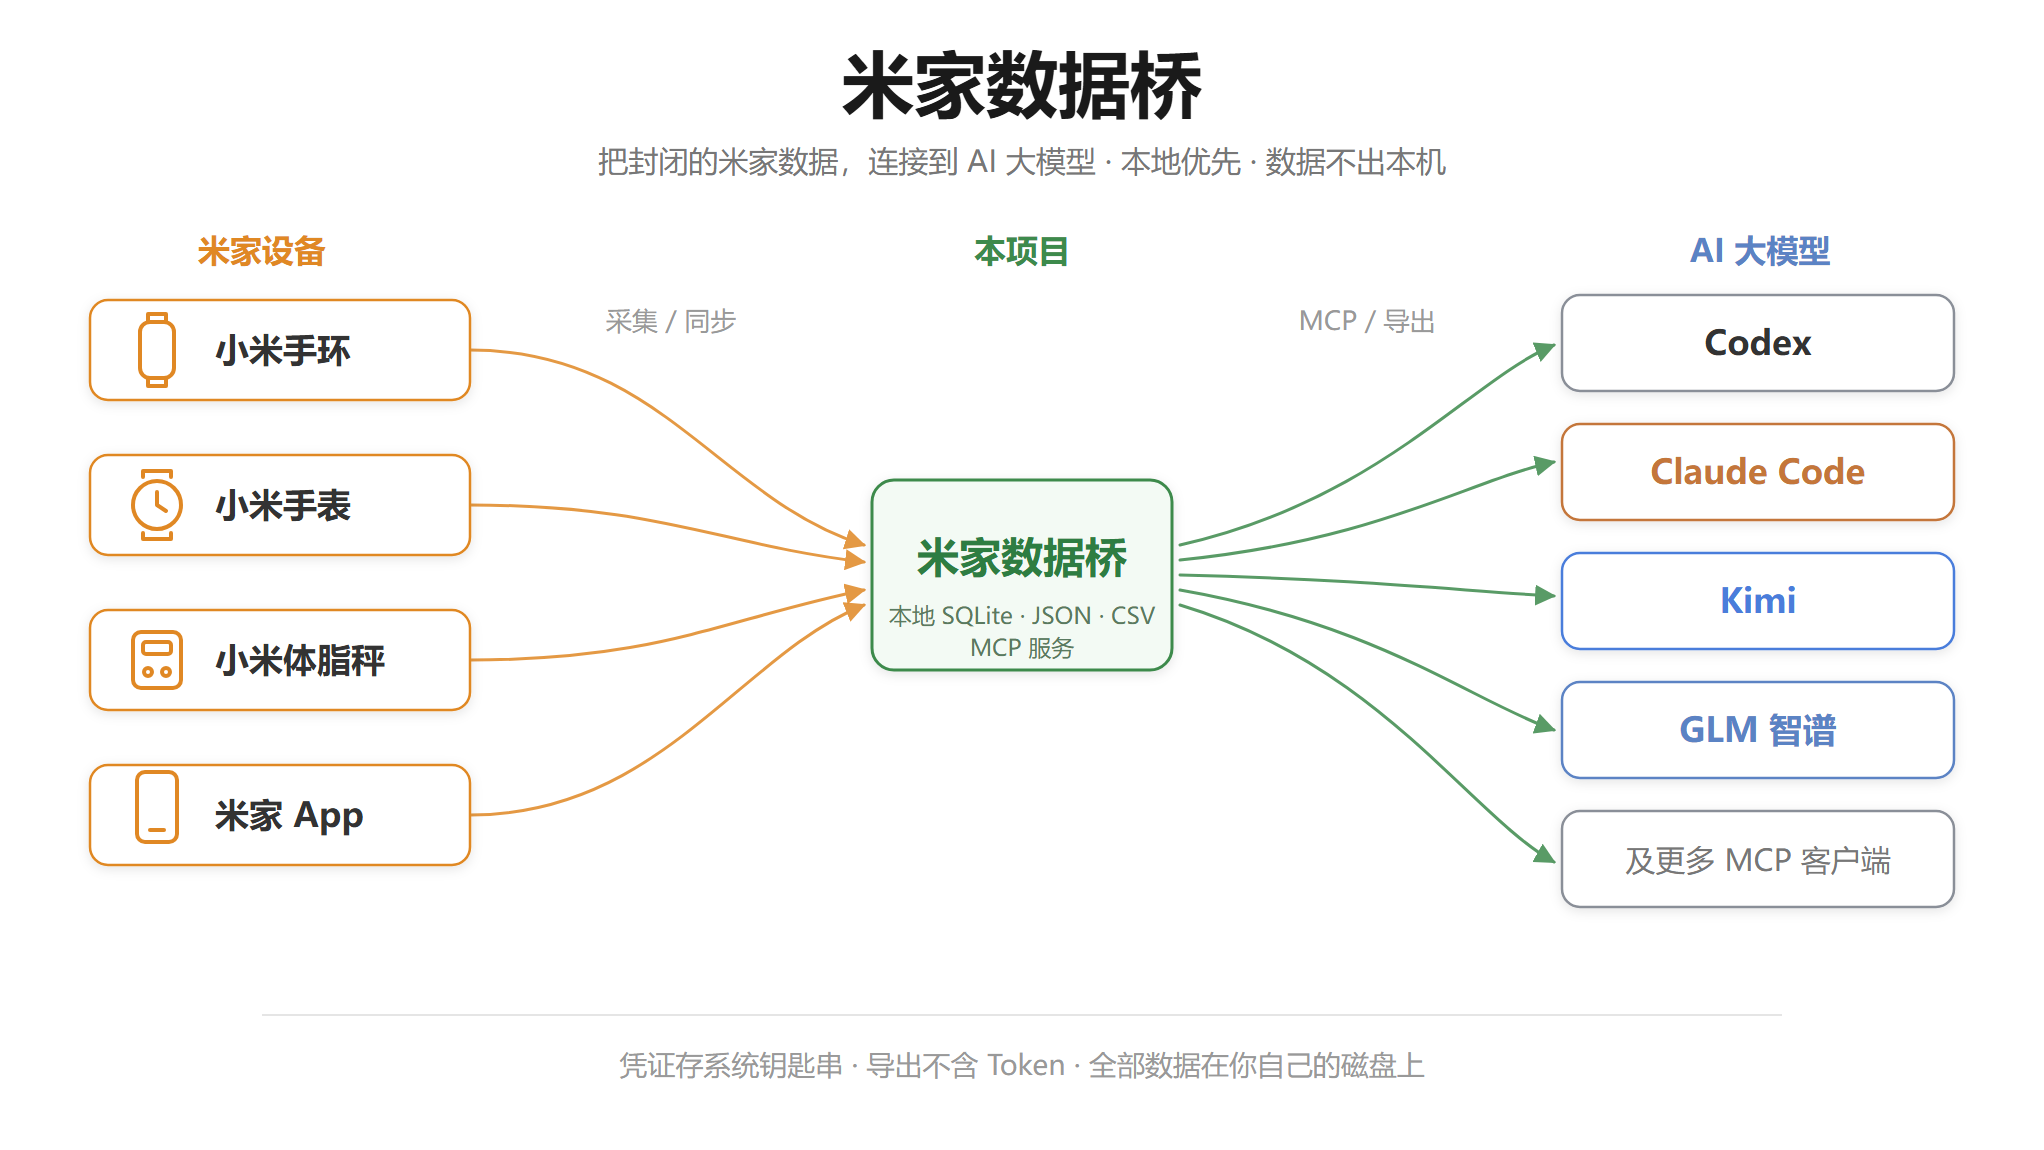
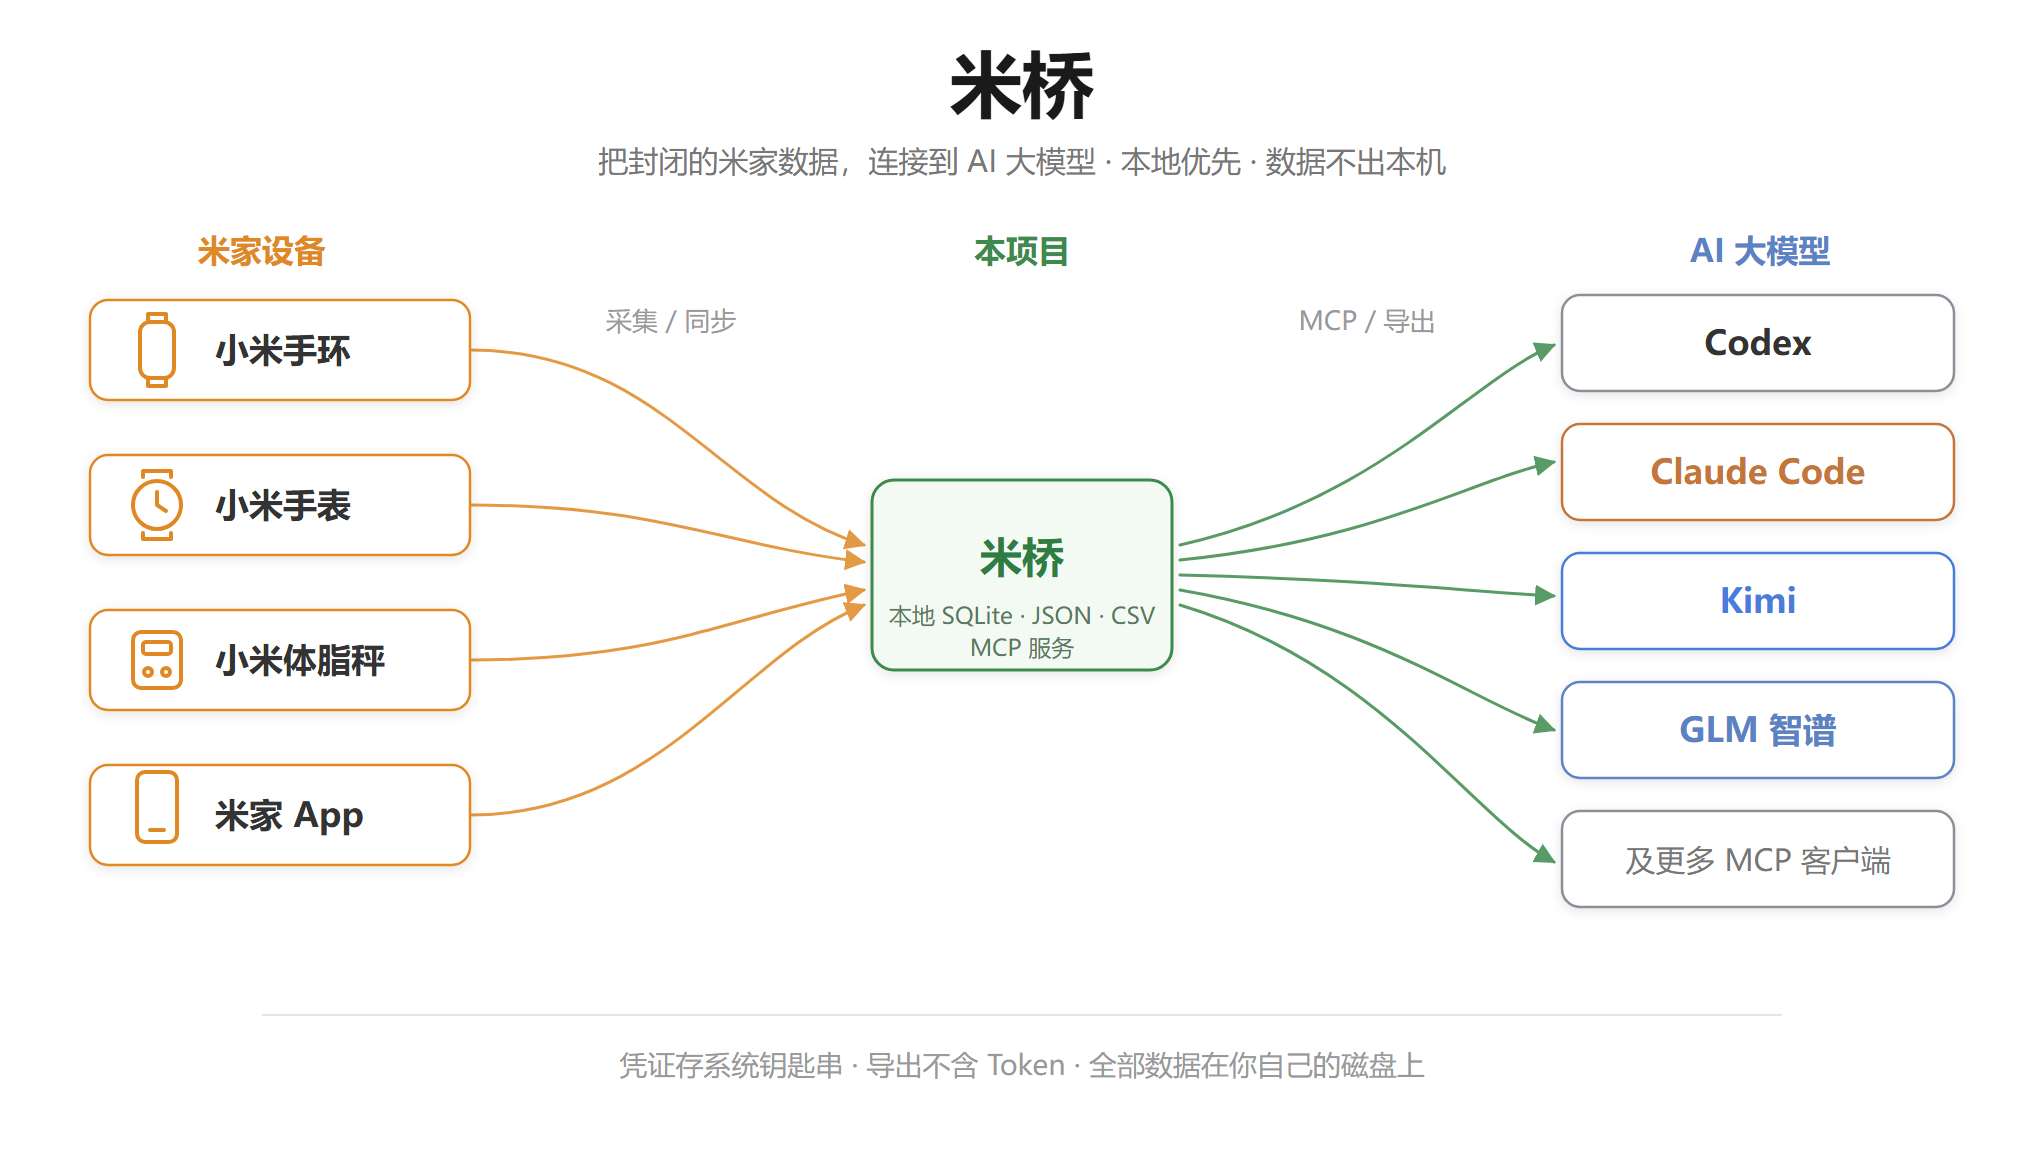
docs: rename hero asset to Mi Bridge and point URLs at renamed repo

Changed region(s): [[0.4007, 0.0304, 0.5856, 0.1217], [0.4315, 0.4565, 0.5548, 0.5174]]

diff --git a/docs/assets/bridge-hero.html b/docs/assets/bridge-hero.html
@@ -23,7 +23,7 @@
   </defs>
 
   <!-- 标题区 -->
-  <text x="1022" y="110" text-anchor="middle" font-size="72" font-weight="700" fill="#1a1a1a">米家数据桥</text>
+  <text x="1022" y="110" text-anchor="middle" font-size="72" font-weight="700" fill="#1a1a1a">米桥</text>
   <text x="1022" y="172" text-anchor="middle" font-size="30" fill="#777777">把封闭的米家数据，连接到 AI 大模型 · 本地优先 · 数据不出本机</text>
 
   <!-- 分列小标题 -->
@@ -84,7 +84,7 @@
   <g filter="url(#soft)">
     <rect x="872" y="480" width="300" height="190" rx="22" fill="#f3faf4" stroke="#3d8a4c" stroke-width="3"/>
   </g>
-  <text x="1022" y="572" text-anchor="middle" font-size="42" font-weight="700" fill="#2e7d42">米家数据桥</text>
+  <text x="1022" y="572" text-anchor="middle" font-size="42" font-weight="700" fill="#2e7d42">米桥</text>
   <text x="1022" y="624" text-anchor="middle" font-size="23" fill="#5a7a60">本地 SQLite · JSON · CSV</text>
   <text x="1022" y="656" text-anchor="middle" font-size="23" fill="#5a7a60">MCP 服务</text>
 
